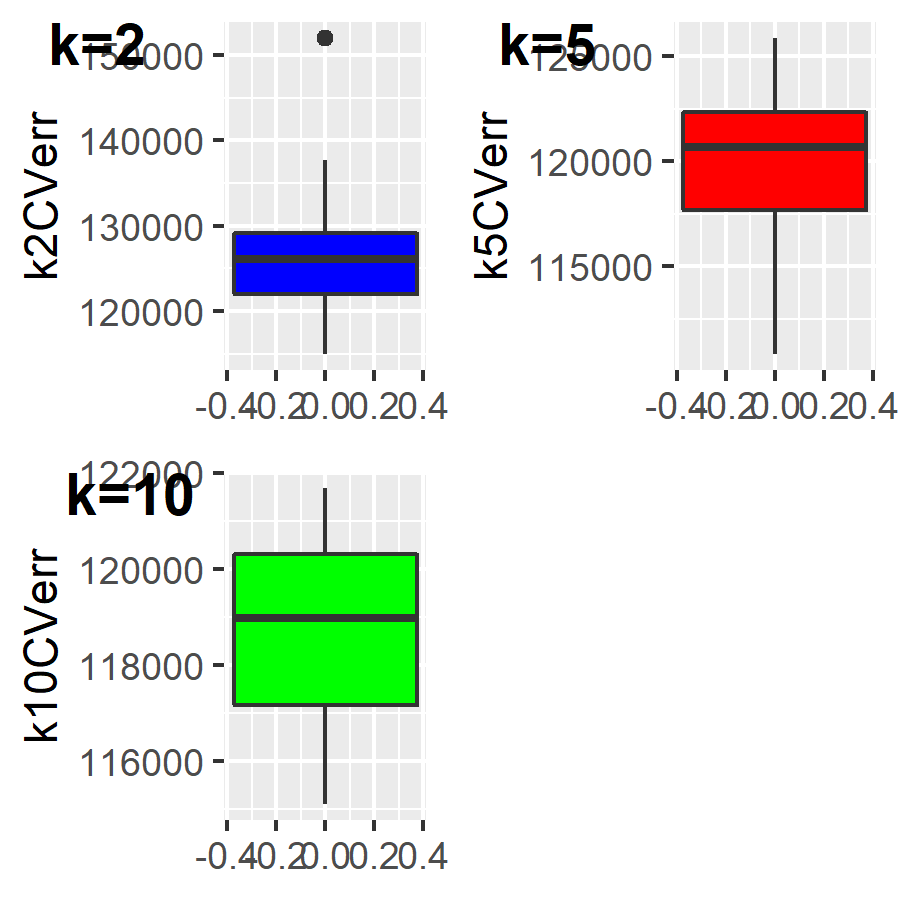
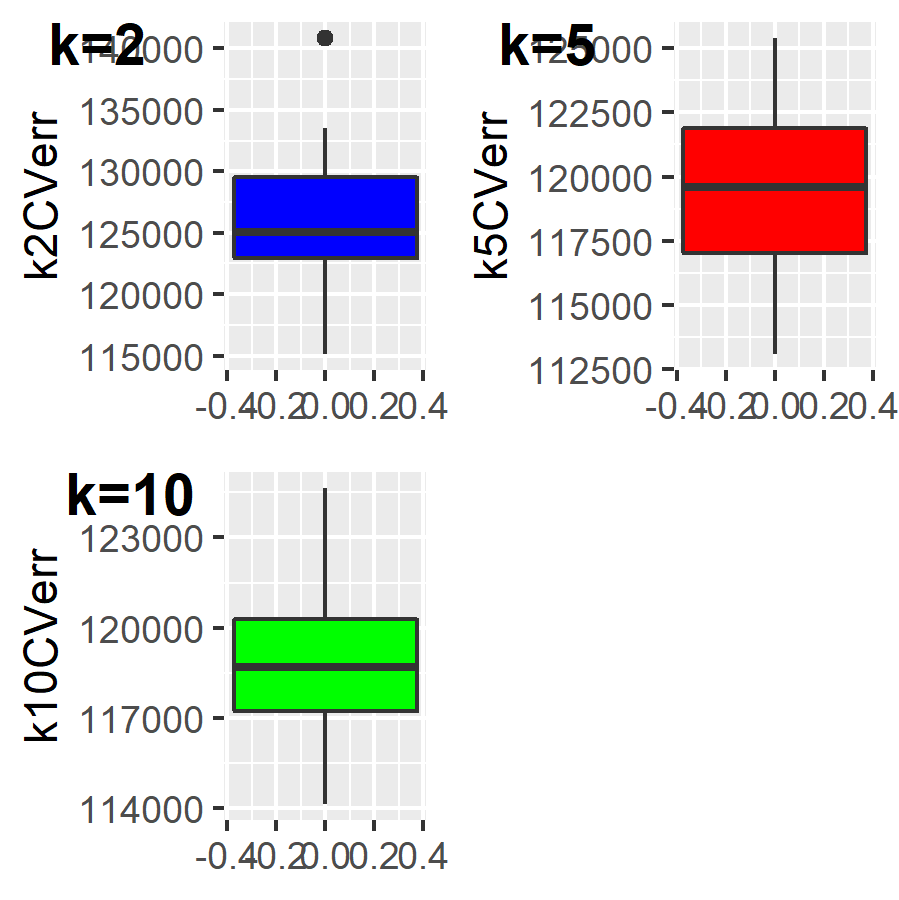
Upload Project2 Pipeline

diff --git a/Analysis/tutorial.html b/Analysis/tutorial.html
@@ -537,7 +537,7 @@ code > span.er { color: #a61717; background-color: #e3d2d2; }
 <a class="sourceLine" id="cb3-25" title="25">tut_box2 &lt;-<span class="st"> </span>ggplot2<span class="op">::</span><span class="kw">ggplot</span>(<span class="dt">data =</span> tut_rf_dataframe, ggplot2<span class="op">::</span><span class="kw">aes</span>(<span class="dt">y =</span> k5CVerr)) <span class="op">+</span><span class="st"> </span>ggplot2<span class="op">::</span><span class="kw">geom_boxplot</span>(<span class="dt">fill =</span> <span class="st">&quot;red&quot;</span>)</a>
 <a class="sourceLine" id="cb3-26" title="26">tut_box3 &lt;-<span class="st"> </span>ggplot2<span class="op">::</span><span class="kw">ggplot</span>(<span class="dt">data =</span> tut_rf_dataframe, ggplot2<span class="op">::</span><span class="kw">aes</span>(<span class="dt">y =</span> k10CVerr)) <span class="op">+</span><span class="st"> </span>ggplot2<span class="op">::</span><span class="kw">geom_boxplot</span>(<span class="dt">fill =</span> <span class="st">&quot;green&quot;</span>)</a>
 <a class="sourceLine" id="cb3-27" title="27">ggpubr<span class="op">::</span><span class="kw">ggarrange</span>(tut_box1,tut_box2,tut_box3, <span class="dt">labels =</span> <span class="kw">c</span>(<span class="st">&quot;k=2&quot;</span>, <span class="st">&quot;k=5&quot;</span>, <span class="st">&quot;k=10&quot;</span>), <span class="dt">ncol =</span> <span class="dv">2</span>, <span class="dt">nrow =</span> <span class="dv">2</span>)</a></code></pre></div>
[2 lines of base64/hex data omitted]
 <div class="sourceCode" id="cb4"><pre class="sourceCode r"><code class="sourceCode r"><a class="sourceLine" id="cb4-1" title="1">kableExtra<span class="op">::</span><span class="kw">kable_styling</span>(knitr<span class="op">::</span><span class="kw">kable</span>(tut_rf_fin_tab))</a></code></pre></div>
 <table class="table" style="margin-left: auto; margin-right: auto;">
 <thead>
@@ -558,10 +558,10 @@ sd
 k2
 </td>
 <td style="text-align:right;">
-127109.8
+125967.4
 </td>
 <td style="text-align:right;">
-7291.672
+5400.499
 </td>
 </tr>
 <tr>
@@ -569,10 +569,10 @@ k2
 k5
 </td>
 <td style="text-align:right;">
-120216.3
+119286.3
 </td>
 <td style="text-align:right;">
-3498.926
+3395.747
 </td>
 </tr>
 <tr>
@@ -580,10 +580,10 @@ k5
 k10
 </td>
 <td style="text-align:right;">
-118811.6
+119032.3
 </td>
 <td style="text-align:right;">
-1864.041
+2417.824
 </td>
 </tr>
 </tbody>
